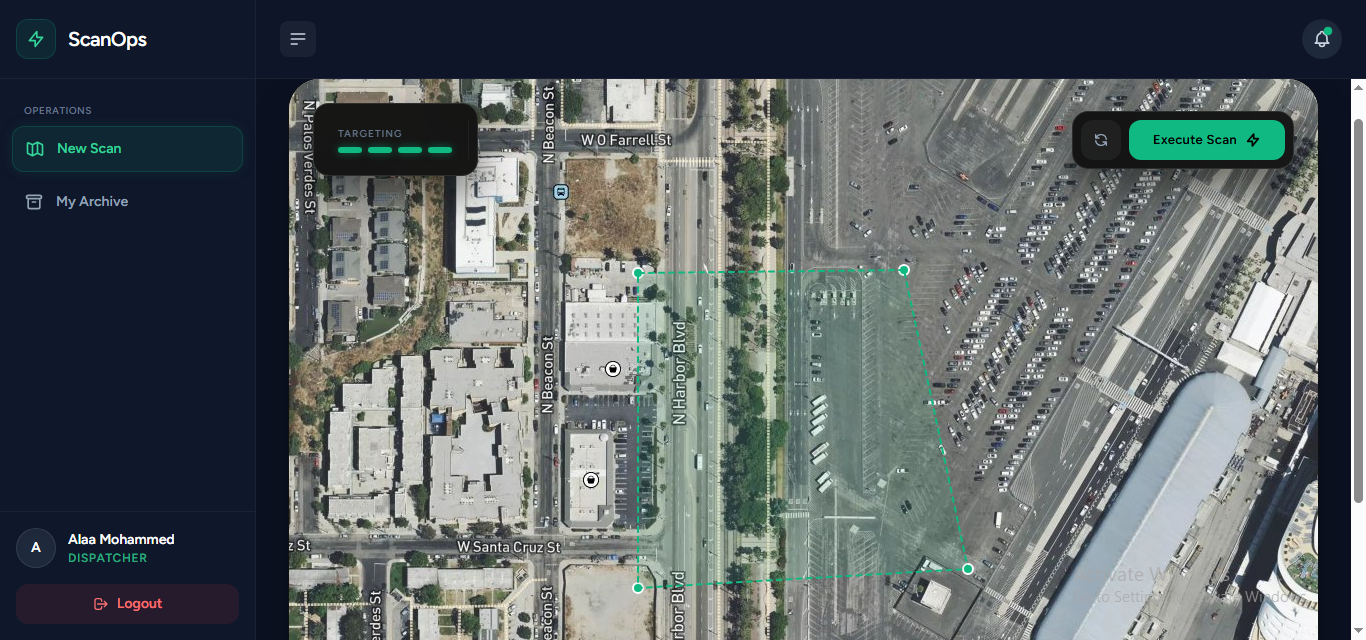
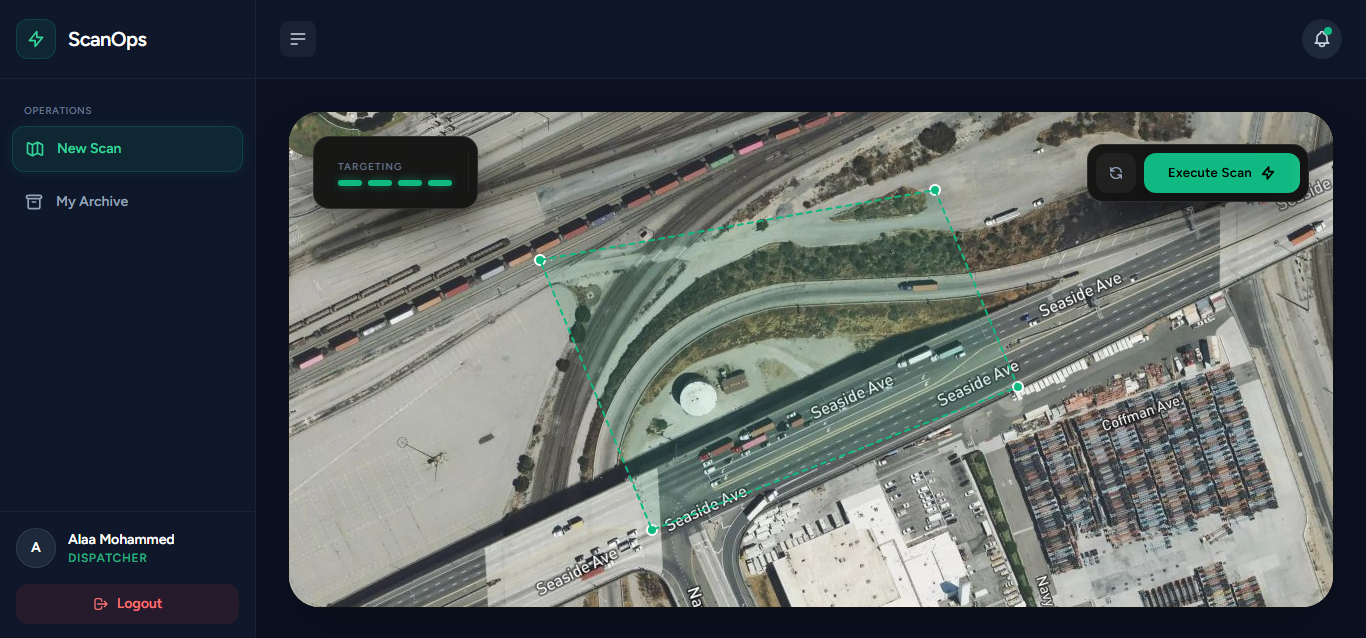
Some editation

diff --git a/resources/js/Pages/YardScans/Create.jsx b/resources/js/Pages/YardScans/Create.jsx
@@ -158,7 +158,16 @@ export default function CreateYardScan() {
 
                 if (statusRes.data.ok) {
                     setScanState(statusRes.data.status);
-                    if (statusRes.data.status === 'completed' || statusRes.data.status === 'failed') {
+                    
+                    if (statusRes.data.status === 'completed') {
+                        // الحل: إجبار التقدم ليكون 100% لأن العملية اكتملت بنجاح بالفعل
+                        setProgress(prev => ({
+                            ...prev,
+                            percent: 100,
+                            finished: prev.total || progressRes.data.total_cells
+                        }));
+                        clearInterval(pollInterval);
+                    } else if (statusRes.data.status === 'failed') {
                         clearInterval(pollInterval);
                     }
                 }
@@ -227,7 +236,8 @@ export default function CreateYardScan() {
         <AppLayout>
             <Head title="ScanOps | Geospatial Targeting" />
             
-            <div className="relative rounded-[2rem] border border-white/5 overflow-hidden shadow-2xl bg-[#050505]">
+            {/* <div className="relative rounded-[2rem] border border-white/5 overflow-hidden shadow-2xl bg-[#050505]"> */}
+            <div className="relative h-full w-full rounded-[2rem] border border-white/5 overflow-hidden shadow-2xl bg-[#050505]">
                 
                 {/* Enterprise HUD (Heads Up Display) Panel */}
                 <div className="absolute top-6 left-6 right-6 z-[1000] flex flex-col md:flex-row items-start md:items-center justify-between gap-4 pointer-events-none">
